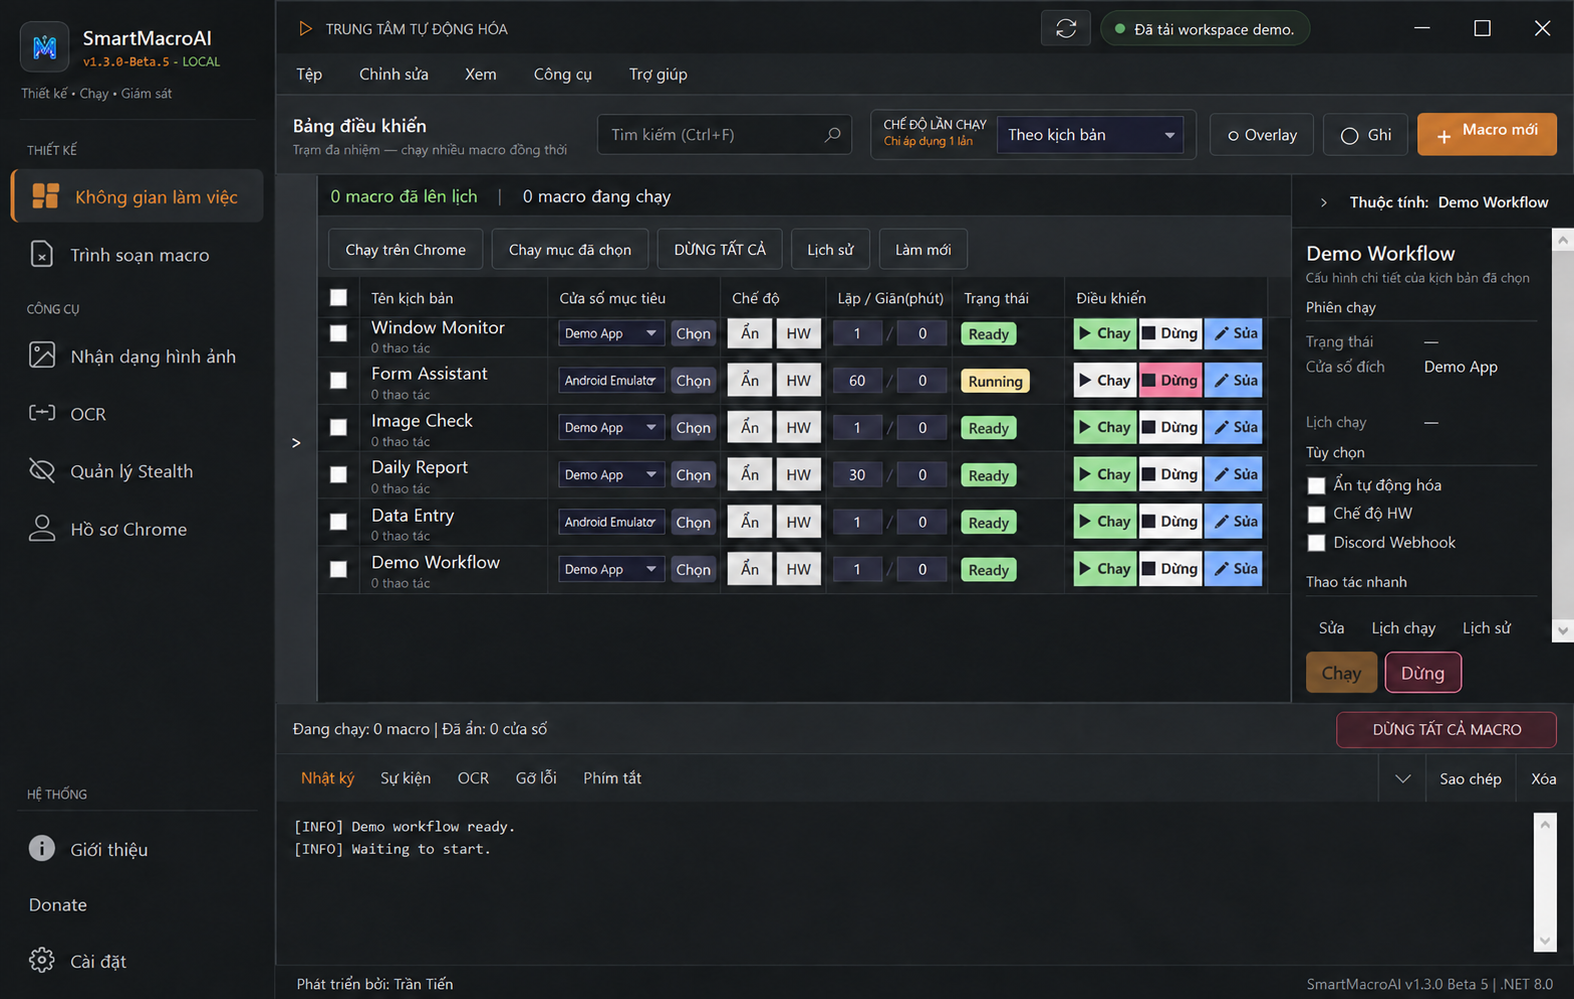
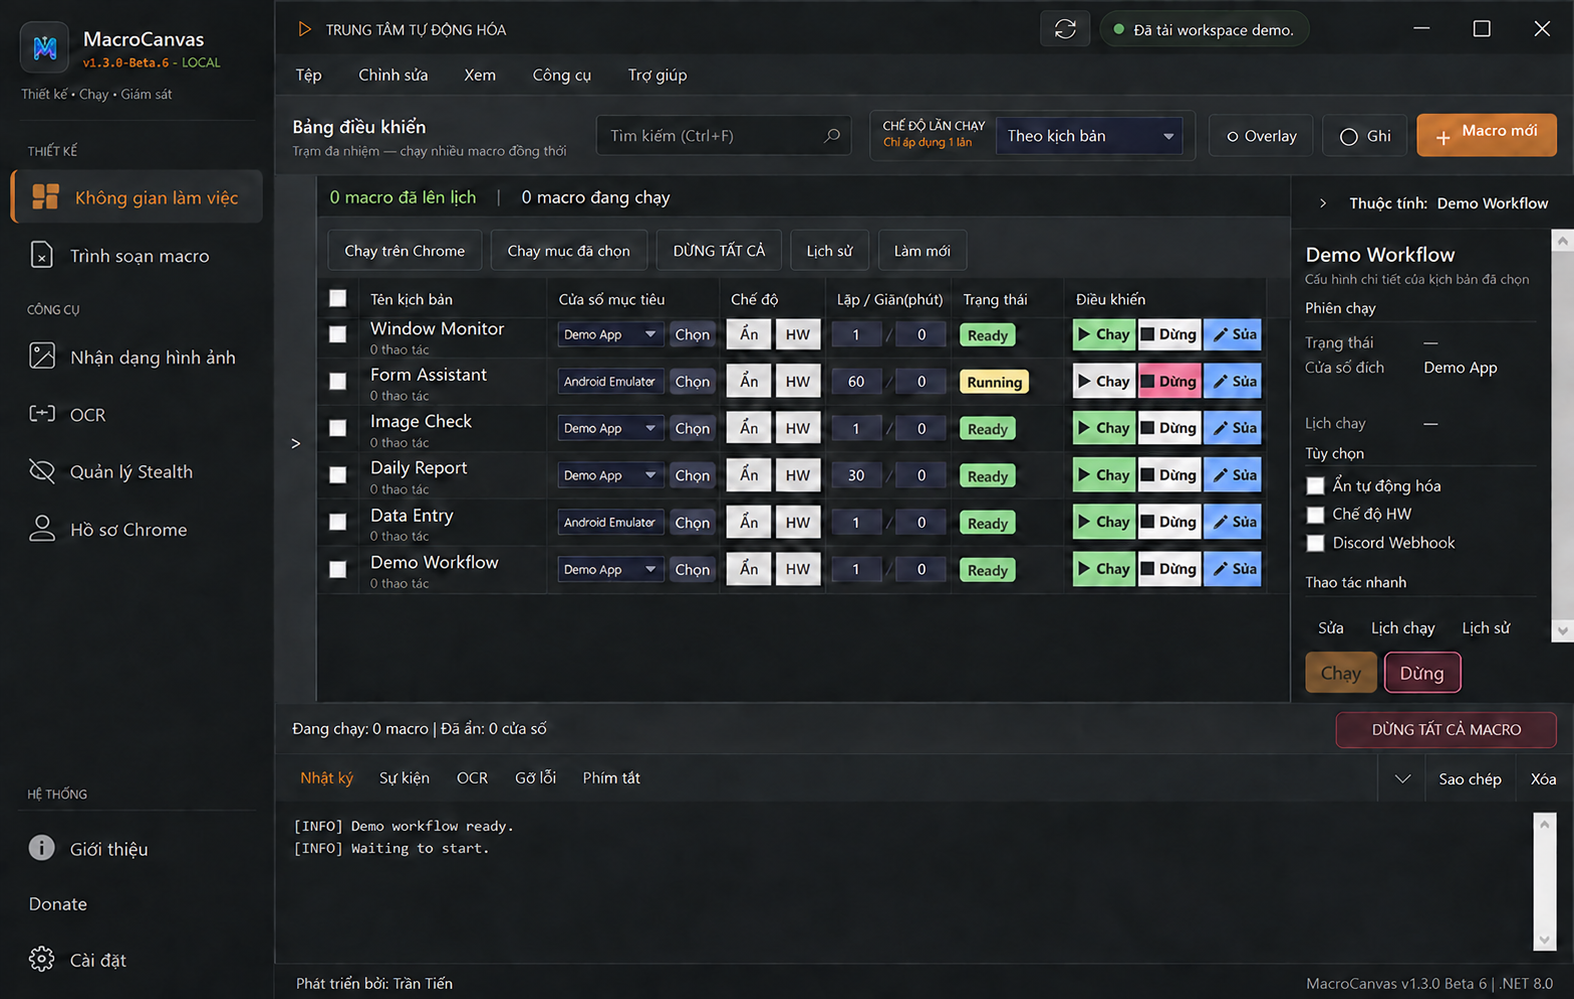
docs: rebrand releases as MacroCanvas

diff --git a/README.md b/README.md
@@ -1,32 +1,35 @@
 <div align="center">
 
-<img src="assets/smartmacroai-logo.png" alt="SmartMacroAI" width="320">
+<img src="assets/macrocanvas-logo.png" alt="MacroCanvas" width="320">
 
-# SmartMacroAI
+# MacroCanvas
 
 **Visual automation for Windows applications and Android emulators**
 
 Build, run, and monitor repeatable workflows without writing code.
 
-[![Version](https://img.shields.io/badge/version-v1.3.0--beta.5-0078D4?style=flat-square)](https://github.com/trantien-creator/MacroAI-Releases/releases/tag/v1.3.0-beta.5)
+[![Version](https://img.shields.io/badge/version-v1.3.0--beta.6-0078D4?style=flat-square)](https://github.com/trantien-creator/MacroCanvas/releases/tag/v1.3.0-beta.6)
 ![Platform](https://img.shields.io/badge/platform-Windows%2010%2B-0078D4?style=flat-square&logo=windows)
 ![Runtime](https://img.shields.io/badge/.NET-8.0-512BD4?style=flat-square&logo=dotnet)
 ![UI](https://img.shields.io/badge/UI-English%20%7C%20Ti%E1%BA%BFng%20Vi%E1%BB%87t-F7931E?style=flat-square)
 
 [Tiếng Việt](README.vi.md)
 
-**[Download Beta 5](https://github.com/trantien-creator/MacroAI-Releases/releases/download/v1.3.0-beta.5/SmartMacroAI-v1.3.0-beta.5-win-x64-Setup.exe)** · **[Get a free beta key](https://cyber-bike-56a.notion.site/SmartMacroAI-License-20-Thi-t-B-30-Ng-y-3d6cdffabe278141a343ea8872c11687)** · **[View demo](#demo)**
+**[Download Beta 6](https://github.com/trantien-creator/MacroCanvas/releases/download/v1.3.0-beta.6/MacroCanvas-v1.3.0-beta.6-win-x64-Setup.exe)** · **[Get a free beta key](https://cyber-bike-56a.notion.site/MacroCanvas-License-20-Thi-t-B-30-Ng-y-3d6cdffabe278141a343ea8872c11687)** · **[View demo](#demo)**
 
-[Website](https://smartmacroai.pages.dev/) · [All releases](https://github.com/trantien-creator/MacroAI-Releases/releases)
+[Website](https://macrocanvas.pages.dev/) · [All releases](https://github.com/trantien-creator/MacroCanvas/releases)
 
 </div>
 
 > [!WARNING]
-> Beta 5 is unsigned. Windows SmartScreen may show a warning. Download only from this official repository and verify the published SHA256 checksum before running the installer.
+> Beta 6 is unsigned. Windows SmartScreen may show a warning. Download only from this official repository and verify the published SHA256 checksum before running the installer.
 
-## What SmartMacroAI does
+> [!NOTE]
+> MacroCanvas is the new name of SmartMacroAI. Beta 6 migrates existing settings, scripts, templates, and license state automatically; the previous data folder is left unchanged as a recovery source.
 
-SmartMacroAI is a desktop visual automation tool for Windows applications and Android emulators.
+## What MacroCanvas does
+
+MacroCanvas is a desktop visual automation tool for Windows applications and Android emulators.
 It combines a workflow editor, recording tools, image matching, OCR, conditions, loops, scheduling, and run diagnostics in one application.
 The goal is to make repeatable desktop and emulator tasks easier to build, inspect, and maintain.
 
@@ -44,11 +47,11 @@ The goal is to make repeatable desktop and emulator tasks easier to build, inspe
 ## Demo
 
 <p align="center">
-  <img src="assets/product-overview.png" alt="SmartMacroAI product overview" width="820">
+  <img src="assets/product-overview.png" alt="MacroCanvas product overview" width="820">
 </p>
 
 <p align="center">
-  <img src="assets/demo-workspace.png" alt="SmartMacroAI workspace demo with neutral sample data" width="1000">
+  <img src="assets/demo-workspace.png" alt="MacroCanvas workspace demo with neutral sample data" width="1000">
 </p>
 The screenshot uses neutral demo data and contains no personal workflow names, target titles, local paths, keys, or private logs.
 
@@ -69,19 +72,19 @@ The screenshot uses neutral demo data and contains no personal workflow names, t
 | Optional driver mode | Low-level input compatibility | Requires Administrator access, driver installation, and a restart. |
 | Android emulator via ADB | Emulator taps, swipes, keys, text, and captures | The selected ADB device must report the `device` state. |
 
-## Beta 5 downloads
+## Beta 6 downloads
 
 | Package | Size | Download |
 |---|---:|---|
-| Windows x64 installer | 237 MiB | [Setup EXE](https://github.com/trantien-creator/MacroAI-Releases/releases/download/v1.3.0-beta.5/SmartMacroAI-v1.3.0-beta.5-win-x64-Setup.exe) |
-| Windows x64 portable | 345 MiB | [ZIP](https://github.com/trantien-creator/MacroAI-Releases/releases/download/v1.3.0-beta.5/SmartMacroAI-v1.3.0-beta.5-win-x64.zip) |
-| Checksums | — | [SHA256SUMS.txt](https://github.com/trantien-creator/MacroAI-Releases/releases/download/v1.3.0-beta.5/SHA256SUMS.txt) |
+| Windows x64 installer | 237 MiB | [Setup EXE](https://github.com/trantien-creator/MacroCanvas/releases/download/v1.3.0-beta.6/MacroCanvas-v1.3.0-beta.6-win-x64-Setup.exe) |
+| Windows x64 portable | 354 MiB | [ZIP](https://github.com/trantien-creator/MacroCanvas/releases/download/v1.3.0-beta.6/MacroCanvas-v1.3.0-beta.6-win-x64.zip) |
+| Checksums | — | [SHA256SUMS.txt](https://github.com/trantien-creator/MacroCanvas/releases/download/v1.3.0-beta.6/SHA256SUMS.txt) |
 
 
 ## Verify the download
 
 ```powershell
-Get-FileHash .\SmartMacroAI-v1.3.0-beta.5-win-x64-Setup.exe -Algorithm SHA256
+Get-FileHash .\MacroCanvas-v1.3.0-beta.6-win-x64-Setup.exe -Algorithm SHA256
 Get-Content .\SHA256SUMS.txt
 ```
 
@@ -90,16 +93,16 @@ Do not run the package when the values differ.
 
 ## Quick start
 
-1. Download the Beta 5 installer or portable ZIP.
+1. Download the Beta 6 installer or portable ZIP.
 2. Verify its SHA256 checksum.
-3. Install or extract SmartMacroAI, then activate it with a valid beta key.
+3. Install or extract MacroCanvas, then activate it with a valid beta key.
 4. Create a workflow or open one of your saved scripts.
 5. Select a Windows target or an available ADB emulator.
 6. Add or record actions, save the workflow, run it, and review the logs.
 
 ## Free beta access
 
-A shared Community beta key is available from the [beta key page](https://cyber-bike-56a.notion.site/SmartMacroAI-License-20-Thi-t-B-30-Ng-y-3d6cdffabe278141a343ea8872c11687).
+A shared Community beta key is available from the [beta key page](https://cyber-bike-56a.notion.site/MacroCanvas-License-20-Thi-t-B-30-Ng-y-3d6cdffabe278141a343ea8872c11687).
 The page displays the current device and time limits.
 Beta access may be changed or withdrawn in a later commercial release.
 
@@ -137,14 +140,14 @@ Always test a workflow after moving it to a different environment.
 - [Proprietary License](LICENSE)
 - [Changelog](CHANGELOG.md)
 
-SmartMacroAI is proprietary software developed by **Trần Tiến**.
+MacroCanvas is proprietary software developed by **Trần Tiến**.
 Copyright © 2026. All rights reserved.
 
 ## Support
 
-- [Open an issue](https://github.com/trantien-creator/MacroAI-Releases/issues)
+- [Open an issue](https://github.com/trantien-creator/MacroCanvas/issues)
 - Email: `hotrantentien98@gmail.com`
-- Website: [smartmacroai.pages.dev](https://smartmacroai.pages.dev/)
+- Website: [macrocanvas.pages.dev](https://macrocanvas.pages.dev/)
 
 This public repository contains product documentation and official release downloads.
 It does not contain the private application source code, credentials, license secrets, or user data.

diff --git a/PRIVACY.md b/PRIVACY.md
@@ -1,8 +1,8 @@
-# SmartMacroAI Privacy Policy
+# MacroCanvas Privacy Policy
 
 Effective date: September 9, 2026
 
-SmartMacroAI uses Google Sign-In only to authenticate users and associate an account with SmartMacroAI services. The app requests the `openid`, `email`, and `profile` scopes and may receive your Google account identifier, email address, display name, and profile image.
+MacroCanvas uses Google Sign-In only to authenticate users and associate an account with MacroCanvas services. The app requests the `openid`, `email`, and `profile` scopes and may receive your Google account identifier, email address, display name, and profile image.
 
 We use this information only for account authentication, licensing, support, security, and fraud prevention. We do not sell personal data or use Google user data for advertising.
 
@@ -10,6 +10,6 @@ Macro scripts and automation data are stored locally by default. Data is sent to
 
 Authentication and licensing records may be retained while your account or license remains active and for a limited period afterward where needed for security, legal, or support purposes. To request access, correction, or deletion of your account data, email hotrantentien98@gmail.com.
 
-We apply reasonable safeguards, but no storage or transmission method is completely secure. SmartMacroAI is not directed to children under 13. Material policy changes will be published in this repository with an updated effective date.
+We apply reasonable safeguards, but no storage or transmission method is completely secure. MacroCanvas is not directed to children under 13. Material policy changes will be published in this repository with an updated effective date.
 
 Contact: hotrantentien98@gmail.com

diff --git a/TERMS.md b/TERMS.md
@@ -1,10 +1,10 @@
-# SmartMacroAI Terms of Service
+# MacroCanvas Terms of Service
 
 Effective date: September 9, 2026
 
-SmartMacroAI is proprietary software provided for lawful desktop automation. Downloading or using it means you agree to these terms and the license included with the release.
+MacroCanvas is proprietary software provided for lawful desktop automation. Downloading or using it means you agree to these terms and the license included with the release.
 
-You are responsible for your automations and for complying with applicable law and the terms of every website, application, game, device, and third-party service you use. Do not use SmartMacroAI to gain unauthorized access, evade security controls, harm systems or users, distribute malware, or violate third-party rights.
+You are responsible for your automations and for complying with applicable law and the terms of every website, application, game, device, and third-party service you use. Do not use MacroCanvas to gain unauthorized access, evade security controls, harm systems or users, distribute malware, or violate third-party rights.
 
 Features that depend on drivers, ADB, webhooks, or external AI services may require additional configuration and may be experimental. Third-party services are governed by their own terms.
 

diff --git a/docs/DISCORD-WEBHOOK.md b/docs/DISCORD-WEBHOOK.md
@@ -1,6 +1,6 @@
 # Discord Webhook
 
-SmartMacroAI can send workflow messages and completion notifications through Discord incoming webhooks.
+MacroCanvas can send workflow messages and completion notifications through Discord incoming webhooks.
 
 ## Supported uses
 
@@ -20,7 +20,7 @@ Treat the entire URL as a credential.
 - Remove it before sharing a script.
 - Revoke it in Discord if it is exposed.
 
-SmartMacroAI removes webhook values from its script-sharing export path.
+MacroCanvas removes webhook values from its script-sharing export path.
 You must configure the webhook again on the receiving installation.
 
 ## Delivery behavior
@@ -33,7 +33,7 @@ Network errors, deleted webhooks, and Discord outages can prevent delivery witho
 
 1. Create a temporary private Discord channel.
 2. Create a temporary incoming webhook.
-3. Send a short test notification from SmartMacroAI.
+3. Send a short test notification from MacroCanvas.
 4. Confirm success and error templates separately.
 5. Revoke the temporary webhook after testing.
 

diff --git a/CHANGELOG.md b/CHANGELOG.md
@@ -1,8 +1,16 @@
 # Changelog
 
+## v1.3.0-beta.6 — September 2026
+
+- Renamed the product to MacroCanvas across the app, installer, website, documentation, and update metadata.
+- Added automatic migration of existing settings, scripts, templates, license state, and other user data.
+- Added a MacroCanvas license endpoint while keeping older clients and existing beta keys compatible.
+- Added the in-app download and update flow with installer size, SHA256, redirect, and Authenticode validation.
+- Updated the Open Graph banner and product screenshots for the MacroCanvas identity.
+
 ## v1.3.0-beta.5 — September 2026
 
-- Updated the official SmartMacroAI branding across the application and website.
+- Updated the official MacroCanvas branding across the application and website.
 - Added the Windows x64 Setup EXE alongside the portable ZIP package.
 - Published SHA256 checksums for both downloadable packages.
 - Completed the English and Vietnamese interface resource pass.

diff --git a/docs/ADB.md b/docs/ADB.md
@@ -1,6 +1,6 @@
 # ADB and Android emulators
 
-SmartMacroAI uses Android Debug Bridge for emulator automation.
+MacroCanvas uses Android Debug Bridge for emulator automation.
 Supported operations include target discovery, display-size reading, capture, tap, swipe, key events, and text input.
 
 ## Readiness
@@ -30,7 +30,7 @@ Ports, authorization, and capture behavior vary between vendors.
 ## Capture fallback
 
 Some emulator renderers may not return usable frames through `adb screencap`.
-SmartMacroAI can use a host-window capture fallback when it can map the selected ADB serial to the correct emulator window.
+MacroCanvas can use a host-window capture fallback when it can map the selected ADB serial to the correct emulator window.
 Compatibility remains dependent on the emulator renderer.
 
 ## Text input

diff --git a/docs/HTTP-API.md b/docs/HTTP-API.md
@@ -1,6 +1,6 @@
 # Local HTTP API
 
-SmartMacroAI provides an optional local API for controlling the desktop application.
+MacroCanvas provides an optional local API for controlling the desktop application.
 The default endpoint is `http://127.0.0.1:5100`.
 
 ## Security boundary
@@ -21,7 +21,7 @@ X-API-Key: <local token>
 Authorization: Bearer <local token>
 ```
 
-The token is stored in the local SmartMacroAI application settings.
+The token is stored in the local MacroCanvas application settings.
 
 ## Endpoints
 

diff --git a/docs/OCR.md b/docs/OCR.md
@@ -1,6 +1,6 @@
 # OCR
 
-SmartMacroAI supports OCR steps for reading visible text from a Windows application or Android emulator capture.
+MacroCanvas supports OCR steps for reading visible text from a Windows application or Android emulator capture.
 
 ## OCR engines
 
